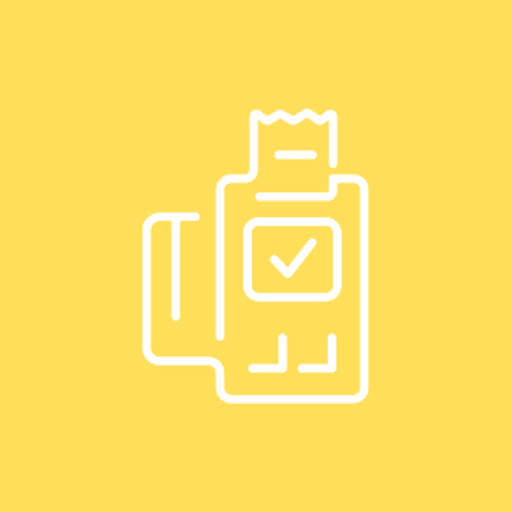
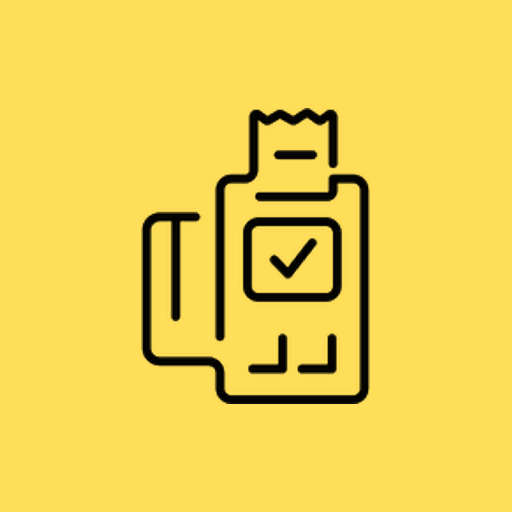
Fix shift summary on Frappe 16, print with the POS Profile format, install popup
- Shift summary failed with "SQL functions are not allowed as strings in
  SELECT": Frappe v16 needs dict syntax, so payment totals now use
  {"SUM": "amount", "as": "amount"}. check_apps.py now flags any SQL
  function written as a string.
- Receipts and reprints open /printview with the register's POS Profile
  print format and letter head (sent in bootstrap); without one, the
  doctype default is used as before.
- PWAs offer an install popup: the native prompt on Android/Chromium, and
  Share -> Add to Home Screen steps on iOS. "Not now" snoozes it for a week;
  it never shows in Desk or when already installed.
- Logo, PWA icons, maskable icons, favicons and apple-touch icon
  regenerated from the new pos.png.

Changed region(s): [[0.25, 0.1875, 0.75, 0.8125]]

diff --git a/frontend/src/shared/components/NInstall.vue b/frontend/src/shared/components/NInstall.vue
@@ -1,0 +1,77 @@
+<script setup lang="ts">
+// "Install the app" popup for the standalone PWAs (never mounted in Desk).
+// Android/Chromium: offered once the browser fires beforeinstallprompt, then the native prompt runs.
+// iOS Safari has no install API, so it shows the Share → Add to Home Screen steps instead.
+// "Not now" is remembered per app for a week; nothing shows once the app runs installed.
+import { computed, onBeforeUnmount, onMounted, ref, watch } from 'vue'
+import NButton from './NButton.vue'
+import NSheet from './NSheet.vue'
+import { t } from '../lib/i18n'
+import { installAvailable, isStandalone, promptInstall } from '../lib/pwa'
+
+const props = defineProps<{ app: string; name: string; logo: string }>()
+
+const SNOOZE_MS = 7 * 24 * 3600 * 1000
+const DELAY_MS = 2500
+const key = computed(() => `${props.app}:install-snoozed`)
+const open = ref(false)
+const ios = /iPhone|iPad|iPod/.test(navigator.userAgent) || (navigator.platform === 'MacIntel' && navigator.maxTouchPoints > 1)
+let timer = 0
+
+function snoozed() {
+  try {
+    return Date.now() - Number(localStorage.getItem(key.value) ?? 0) < SNOOZE_MS
+  } catch {
+    return false
+  }
+}
+function offer() {
+  clearTimeout(timer)
+  if (isStandalone() || snoozed()) return
+  timer = window.setTimeout(() => (open.value = true), DELAY_MS)
+}
+function later() {
+  open.value = false
+  try { localStorage.setItem(key.value, String(Date.now())) } catch { /* private mode */ }
+}
+async function install() {
+  open.value = false
+  await promptInstall()
+}
+
+onMounted(() => {
+  if (installAvailable.value || ios) offer()
+})
+watch(installAvailable, (v) => {
+  if (v) offer()
+  else if (!ios) open.value = false
+})
+onBeforeUnmount(() => clearTimeout(timer))
+</script>
+
+<template>
+  <NSheet :open="open" :title="t('Install {0}', name)" @close="later">
+    <div class="n-install">
+      <img :src="logo" alt="" width="64" height="64" class="n-install__logo" />
+      <div>
+        <p class="n-install__lead">{{ t('Add {0} to your home screen for full-screen use, a faster start and work offline.', name) }}</p>
+        <ol v-if="ios && !installAvailable" class="n-install__steps">
+          <li>{{ t('Tap the Share button in the browser bar.') }}</li>
+          <li>{{ t('Choose “Add to Home Screen”, then tap Add.') }}</li>
+        </ol>
+      </div>
+    </div>
+    <template #actions>
+      <NButton variant="ghost" @click="later">{{ t('Not now') }}</NButton>
+      <NButton v-if="installAvailable" variant="primary" icon="plus" @click="install">{{ t('Install') }}</NButton>
+      <NButton v-else variant="primary" icon="check" @click="later">{{ t('Got it') }}</NButton>
+    </template>
+  </NSheet>
+</template>
+
+<style>
+.n-install { display: flex; gap: var(--space-4); align-items: flex-start; }
+.n-install__logo { border-radius: 14px; flex: none; }
+.n-install__lead { color: var(--text-body); }
+.n-install__steps { margin-block-start: var(--space-3); padding-inline-start: 1.2em; display: grid; gap: var(--space-2); color: var(--text-strong); font-weight: 600; }
+</style>

diff --git a/frontend/src/shared/locales/ar-more.ts b/frontend/src/shared/locales/ar-more.ts
@@ -293,4 +293,11 @@ export default {
   'This browser cannot open the camera. Use the code field or a scanner.': 'لا يستطيع هذا المتصفح فتح الكاميرا. استخدم حقل الرمز أو قارئ الباركود.',
   'Camera access was blocked. Allow it in the browser settings, or type the code.': 'تم حظر الوصول إلى الكاميرا. اسمح به من إعدادات المتصفح، أو اكتب الرمز.',
   'The camera or barcode reader could not start. Type the code instead.': 'تعذّر تشغيل الكاميرا أو قارئ الباركود. اكتب الرمز بدلاً من ذلك.',
+  'Install {0}': 'ثبّت {0}',
+  'Add {0} to your home screen for full-screen use, a faster start and work offline.': 'أضف {0} إلى الشاشة الرئيسية لاستخدامه بملء الشاشة وتشغيل أسرع والعمل دون اتصال.',
+  'Tap the Share button in the browser bar.': 'اضغط زر المشاركة في شريط المتصفح.',
+  'Choose “Add to Home Screen”, then tap Add.': 'اختر «إضافة إلى الشاشة الرئيسية» ثم اضغط إضافة.',
+  'Not now': 'ليس الآن',
+  'Install': 'تثبيت',
+  'Got it': 'حسناً',
 } as Record<string, string>

diff --git a/frontend/src/staff/views/SalesView.vue b/frontend/src/staff/views/SalesView.vue
@@ -9,6 +9,7 @@ import NStatus from '@shared/components/NStatus.vue'
 import { toast } from '@shared/components/toast'
 import { call, newKey } from '@shared/lib/api'
 import { money, t } from '@shared/lib/i18n'
+import { receiptUrl } from '@shared/till/till'
 import { useTill } from '../state'
 
 interface Sale { name: string; customer_name: string; rounded_total: number; grand_total: number; posting_time: string; is_return: number; currency: string }
@@ -89,7 +90,7 @@ async function submitReturn() {
           <td class="num">{{ s.posting_time?.slice(0, 5) }}</td>
           <td class="num">{{ money(s.rounded_total || s.grand_total, s.currency) }}</td>
           <td class="sales__actions">
-            <a class="sales__link" :href="`/printview?doctype=${encodeURIComponent(invoiceDt)}&name=${encodeURIComponent(s.name)}&trigger_print=1`" target="_blank" rel="noopener">{{ t('Reprint') }}</a>
+            <a class="sales__link" :href="receiptUrl(till.register.value, invoiceDt, s.name)" target="_blank" rel="noopener">{{ t('Reprint') }}</a>
             <NButton v-if="!s.is_return" size="sm" icon="undo" @click="startReturn(s)">{{ t('Return') }}</NButton>
           </td>
         </tr>

diff --git a/frontend/src/staff/views/SellView.vue b/frontend/src/staff/views/SellView.vue
@@ -12,6 +12,7 @@ import type { ScanOutcome } from '@shared/lib/scan'
 import CartTape from '@shared/till/CartTape.vue'
 import CatalogPanel from '@shared/till/CatalogPanel.vue'
 import PaySheet from '@shared/till/PaySheet.vue'
+import { receiptUrl } from '@shared/till/till'
 import { useTill } from '../state'
 
 const till = useTill()
@@ -81,8 +82,7 @@ async function pay(tenders: { mode_of_payment: string; amount: string }[]) {
 function printReceipt() {
   const inv = receipt.value?.invoice
   if (!inv) return
-  const dt = encodeURIComponent(inv.doctype ?? 'Sales Invoice')
-  window.open(`/printview?doctype=${dt}&name=${encodeURIComponent(inv.name)}&trigger_print=1&no_letterhead=0`, '_blank', 'noopener')
+  window.open(receiptUrl(till.register.value, inv.doctype ?? 'Sales Invoice', inv.name), '_blank', 'noopener')
 }
 
 async function hold() {

diff --git a/frontend/src/customer/App.vue b/frontend/src/customer/App.vue
@@ -8,6 +8,7 @@ import NQty from '@shared/components/NQty.vue'
 import NScanner from '@shared/components/NScanner.vue'
 import NSheet from '@shared/components/NSheet.vue'
 import NState from '@shared/components/NState.vue'
+import NInstall from '@shared/components/NInstall.vue'
 import NToasts from '@shared/components/NToasts.vue'
 import { toast } from '@shared/components/toast'
 import { ApiError, call, newKey } from '@shared/lib/api'
@@ -238,6 +239,7 @@ const STATUS_TEXT: Record<string, [string, string]> = {
       </template>
     </NSheet>
     <NToasts />
+    <NInstall app="nest_pos_customer" name="Nest Shop" logo="/assets/nest_pos/images/nest-pos-logo.png" />
   </div>
 </template>
 

diff --git a/frontend/src/shared/till/till.ts b/frontend/src/shared/till/till.ts
@@ -24,6 +24,17 @@ export interface RegisterInfo {
   default_customer: string
   session: string | null
   outlet_label?: string
+  print_format?: string | null
+  letter_head?: string | null
+}
+
+/** Desk print view for an invoice, using the POS Profile's print format and letter head when set. */
+export function receiptUrl(reg: RegisterInfo | null, doctype: string, name: string) {
+  const q = new URLSearchParams({ doctype, name, trigger_print: '1' })
+  if (reg?.print_format) q.set('format', reg.print_format)
+  if (reg?.letter_head) q.set('letterhead', reg.letter_head)
+  else q.set('no_letterhead', '0')
+  return `/printview?${q}`
 }
 export interface Boot {
   user: string

diff --git a/frontend/src/staff/App.vue b/frontend/src/staff/App.vue
@@ -4,6 +4,7 @@ import { useRoute } from 'vue-router'
 import NConnection from '@shared/components/NConnection.vue'
 import NShell from '@shared/components/NShell.vue'
 import NState from '@shared/components/NState.vue'
+import NInstall from '@shared/components/NInstall.vue'
 import NToasts from '@shared/components/NToasts.vue'
 import { call } from '@shared/lib/api'
 import { t } from '@shared/lib/i18n'
@@ -109,6 +110,7 @@ async function logout() {
     </RouterView>
   </NShell>
   <NToasts />
+  <NInstall v-if="!embedded" app="nest_pos" name="Nest POS" logo="/assets/nest_pos/images/nest-pos-logo.png" />
 </template>
 
 <style>

diff --git a/frontend/src/shared/lib/pwa.ts b/frontend/src/shared/lib/pwa.ts
@@ -48,6 +48,11 @@ window.addEventListener?.('beforeinstallprompt', (e) => {
   installAvailable.value = true
 })
 
+window.addEventListener?.('appinstalled', () => {
+  deferredInstall = null
+  installAvailable.value = false
+})
+
 export async function promptInstall() {
   if (!deferredInstall) return false
   await deferredInstall.prompt()

diff --git a/nest_pos/kit/register.py b/nest_pos/kit/register.py
@@ -184,7 +184,7 @@ def summary(session_name: str, include_expected: bool = True) -> dict:
 	payments = frappe.get_all(
 		"Sales Invoice Payment",
 		filters={"parenttype": dt, "parent": ["in", names]},
-		fields=["mode_of_payment", "sum(amount) as amount"],
+		fields=["mode_of_payment", {"SUM": "amount", "as": "amount"}],
 		group_by="mode_of_payment",
 	)
 	paid = {p.mode_of_payment: flt(p.amount) for p in payments}

diff --git a/nest_pos/kit/staff_api.py b/nest_pos/kit/staff_api.py
@@ -37,6 +37,8 @@ def bootstrap() -> dict:
 					for p in profile.payments
 				],
 				"default_customer": profile.customer,
+				"print_format": profile.print_format,
+				"letter_head": profile.letter_head,
 				"session": session.name if session else None,
 			}
 		)
